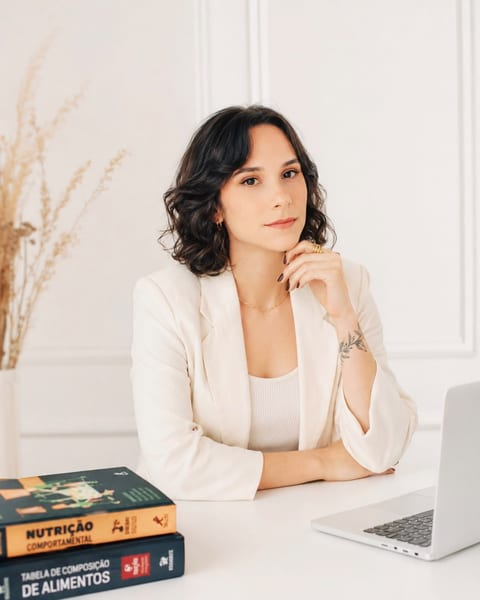
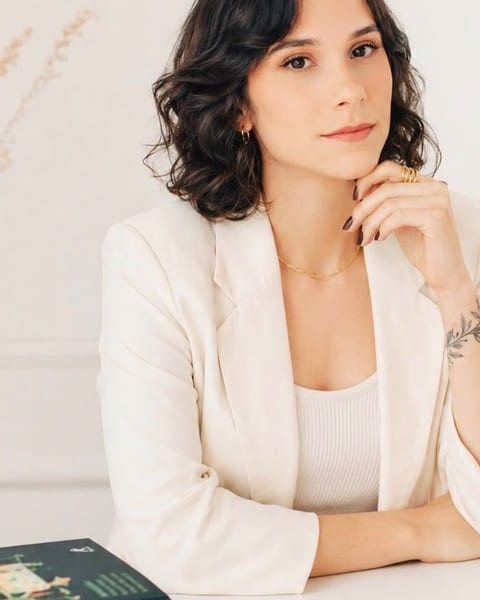
Ajustes na landing page: avaliações em Poppins, remove notas dos CTAs, texto Sobre em primeira pessoa, foto do FAQ com zoom

diff --git a/index.html b/index.html
@@ -114,7 +114,6 @@
               <svg class="icon" aria-hidden="true"><use href="assets/icons/sprite.svg#whatsapp"/></svg>
               <span>Quero começar meu acompanhamento</span>
             </a>
-            <p class="cta-note">Ao clicar, a conversa abre no WhatsApp para conversarmos sobre a melhor opção para você.</p>
           </div>
         </div>
 
@@ -156,7 +155,6 @@
               <svg class="icon" aria-hidden="true"><use href="assets/icons/sprite.svg#whatsapp"/></svg>
               <span>Quero conhecer o CMT</span>
             </a>
-            <p class="cta-note">Ao clicar, a conversa abre no WhatsApp para entendermos se o programa faz sentido para o seu momento.</p>
           </div>
         </div>
 
@@ -206,7 +204,7 @@
           <p class="reviews-fallback"><a class="link-arrow" href="https://share.google/rhQ1G3dLco5bFbjpc" target="_blank" rel="noopener">Ver avaliações no Google</a></p>
         </noscript>
 
-        <p class="reviews-close" data-reveal>Você também pode fazer diferente. <span>Quando o plano se encaixa, o cuidado se sustenta.</span></p>
+        <p class="reviews-close" data-reveal>Você também pode. <span>Quando o plano se encaixa, o cuidado se sustenta.</span></p>
       </div>
     </section>
 
@@ -223,12 +221,12 @@
         </figure>
 
         <div class="about-copy" data-reveal>
-          <p class="eyebrow">Sobre mim</p>
+          <p class="eyebrow">Quem vai ser a sua nutricionista</p>
           <h2 id="sobre-titulo">Carol Varela</h2>
-          <p class="lead"><strong>Carol Varela</strong> é nutricionista esportiva e estética com abordagem comportamental, graduada pela Universidade Federal do Rio de Janeiro (UFRJ) e certificada pela International Society of Sports Nutrition (ISSN). Atua com foco em emagrecimento, recomposição corporal e construção de uma rotina alimentar possível de manter, mesmo com dias corridos, imprevistos ou recaídas.</p>
-          <p>Sua história com a nutrição começou ainda na adolescência, quando percebeu que alimentação não era só sobre “comer certo”, mas sobre organização, autoconhecimento e escolhas consistentes. Desde então, construiu uma trajetória baseada em escuta, estratégia e transformação, com planos que funcionam na prática e se adaptam à realidade de cada paciente.</p>
-          <p>Hoje, Carol atende pessoas que já tentaram diferentes métodos, mas ainda não haviam encontrado um acompanhamento que respeitasse suas fases, acelerasse o que é possível e sustentasse o que é necessário.</p>
-          <p>Ela é criadora do programa <strong>Comer, Mover, Transformar (CMT)</strong>, uma metodologia exclusiva que combina acompanhamento técnico, comportamento e estratégias práticas de evolução. Além do CMT, também oferece consultas e planos de acompanhamento, para que cada pessoa encontre um formato que faça sentido para o seu momento e objetivos.</p>
+          <p class="lead">Sou <strong>Carol Varela</strong>, nutricionista esportiva e estética com abordagem comportamental, graduada pela Universidade Federal do Rio de Janeiro (UFRJ) e certificada pela International Society of Sports Nutrition (ISSN). Atuo com foco em emagrecimento, recomposição corporal e construção de uma rotina alimentar possível de manter, mesmo com dias corridos, imprevistos ou recaídas.</p>
+          <p>Minha história com a nutrição começou ainda na adolescência, quando percebi que alimentação não era só sobre “comer certo”, mas sobre organização, autoconhecimento e escolhas consistentes. Desde então, construí uma trajetória baseada em escuta, estratégia e transformação, com planos que funcionam na prática e se adaptam à realidade de cada paciente.</p>
+          <p>Hoje, atendo pessoas que já tentaram diferentes métodos, mas ainda não haviam encontrado um acompanhamento que respeitasse suas fases, acelerasse o que é possível e sustentasse o que é necessário.</p>
+          <p>Sou criadora do programa <strong>Comer, Mover, Transformar (CMT)</strong>, uma metodologia exclusiva que combina acompanhamento técnico, comportamento e estratégias práticas de evolução. Além do CMT, também ofereço consultas e planos de acompanhamento, para que cada pessoa encontre um formato que faça sentido para o seu momento e objetivos.</p>
 
           <dl class="facts">
             <div><dt>Formação</dt><dd>UFRJ</dd></div>
@@ -241,7 +239,6 @@
               <svg class="icon" aria-hidden="true"><use href="assets/icons/sprite.svg#whatsapp"/></svg>
               <span>Falar com a Carol no WhatsApp</span>
             </a>
-            <p class="cta-note">Ao clicar, a conversa abre no WhatsApp para você tirar suas dúvidas.</p>
           </div>
         </div>
       </div>
@@ -258,8 +255,8 @@
         <figure class="faq-photo" data-reveal>
           <div class="arch">
             <picture>
-              <source type="image/webp" sizes="(min-width: 64rem) 340px, 70vw" srcset="assets/img/perfil-480.webp 480w, assets/img/perfil-800.webp 800w">
-              <img src="assets/img/perfil-800.jpg" srcset="assets/img/perfil-480.jpg 480w, assets/img/perfil-800.jpg 800w" sizes="(min-width: 64rem) 340px, 70vw" alt="Retrato de Carol Varela, nutricionista, de blazer claro, com livros de nutrição sobre a mesa" width="800" height="1000" loading="lazy">
+              <source type="image/webp" sizes="(min-width: 64rem) 340px, 70vw" srcset="assets/img/perfil-480.webp 480w, assets/img/perfil-640.webp 640w">
+              <img src="assets/img/perfil-640.jpg" srcset="assets/img/perfil-480.jpg 480w, assets/img/perfil-640.jpg 640w" sizes="(min-width: 64rem) 340px, 70vw" alt="Retrato de Carol Varela, nutricionista, de blazer claro, com livros de nutrição sobre a mesa" width="640" height="800" loading="lazy">
             </picture>
           </div>
         </figure>

diff --git a/assets/css/sections.css b/assets/css/sections.css
@@ -49,7 +49,7 @@ h2 {
   font-weight: 300;
 }
 
-.hero-copy p:not(.eyebrow):not(.lead):not(.cta-note) {
+.hero-copy p:not(.eyebrow):not(.lead) {
   color: var(--ink-soft);
   max-width: 52ch;
 }
@@ -145,7 +145,7 @@ h2 {
   align-content: center;
 }
 
-.cmt-copy p:not(.eyebrow):not(.lead):not(.cta-note) {
+.cmt-copy p:not(.eyebrow):not(.lead) {
   color: rgb(243 236 228 / 0.78);
   max-width: 52ch;
 }
@@ -343,8 +343,8 @@ h2 {
   grid-area: 1 / 1;
   display: flex;
   flex-direction: column;
-  gap: 1.5rem;
-  padding: 2rem 1.5rem;
+  gap: 1.25rem;
+  padding: 1.5rem;
   border: 1px solid var(--line);
   border-radius: var(--radius-md);
   background: #fff;
@@ -372,10 +372,10 @@ h2 {
 }
 
 .review-text {
-  font-family: var(--font-display);
-  font-size: clamp(1.25rem, 1.05rem + 0.9vw, 1.625rem);
+  font-family: var(--font-body);
+  font-size: clamp(0.9375rem, 0.89rem + 0.25vw, 1.0625rem);
   font-weight: 300;
-  line-height: 1.45;
+  line-height: 1.6;
   color: var(--navy);
 }
 
@@ -517,7 +517,7 @@ h2 {
 
 @media (min-width: 40rem) {
   .review-card {
-    padding: 3rem 3.5rem;
+    padding: 2.25rem 2.5rem;
   }
 }
 
@@ -563,7 +563,7 @@ h2 {
   font-weight: 300;
 }
 
-.about-copy p:not(.eyebrow):not(.lead):not(.cta-note) {
+.about-copy p:not(.eyebrow):not(.lead) {
   color: var(--ink-soft);
 }
 

diff --git a/assets/css/components.css b/assets/css/components.css
@@ -71,17 +71,6 @@
   justify-items: start;
 }
 
-.cta-note {
-  max-width: 34ch;
-  font-size: 0.8125rem;
-  line-height: 1.55;
-  color: var(--ink-soft);
-}
-
-.on-dark .cta-note {
-  color: rgb(243 236 228 / 0.7);
-}
-
 /* Header */
 .site-header {
   position: sticky;
